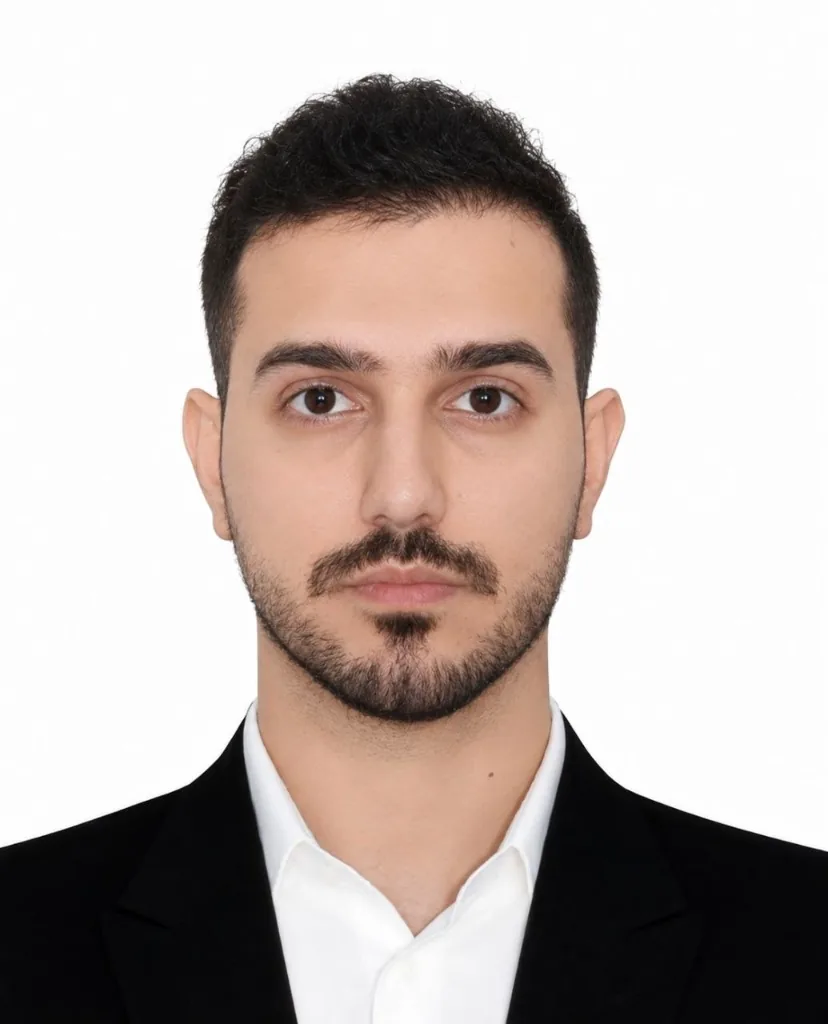
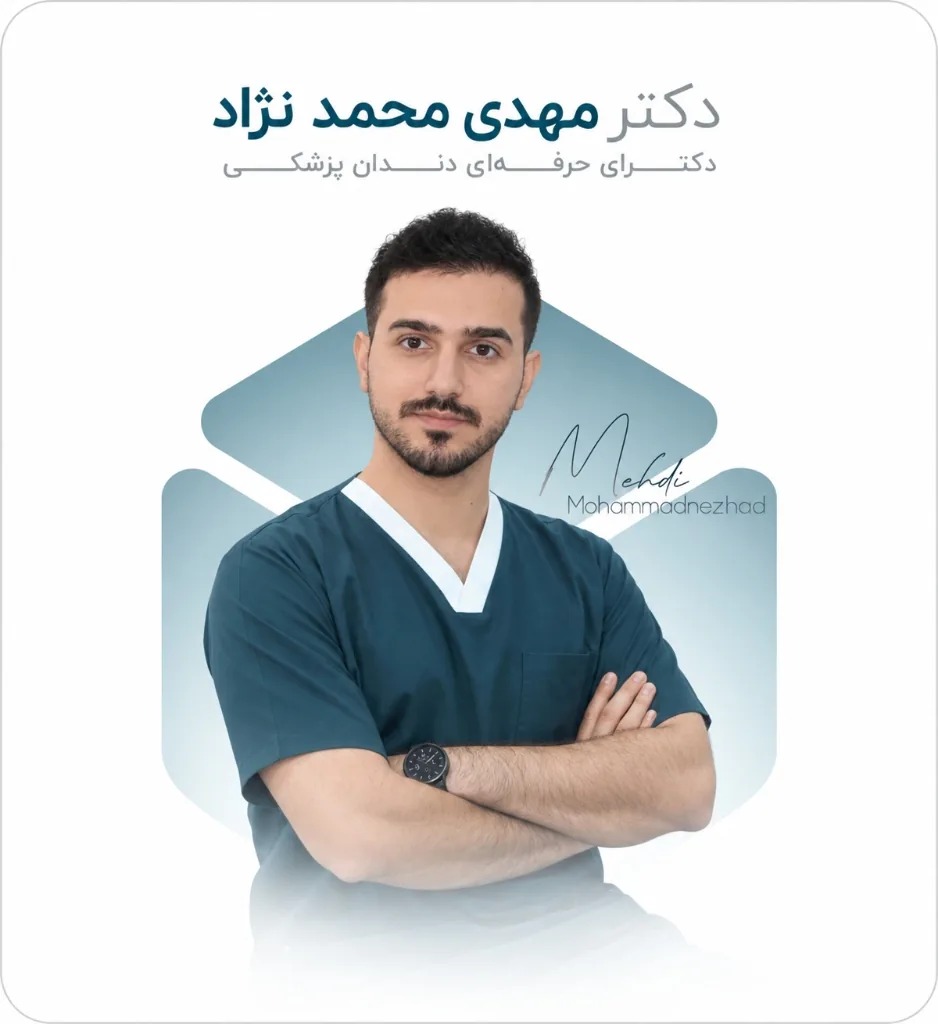
fix(assets): restore clinic card image for doctors carousel and use optimized portrait for article comments

diff --git a/src/app/articles/[slug]/page.tsx b/src/app/articles/[slug]/page.tsx
@@ -658,7 +658,7 @@ export default async function ArticleDetailPage({ params }: ArticleDetailProps) 
                               }}
                             >
                               <Image
-                                src="/assets/doctor-mohammadnezhad.webp"
+                                src="/assets/doctor-portrait.webp"
                                 alt="دکتر مهدی محمدنژاد"
                                 fill
                                 style={{ objectFit: 'cover' }}
@@ -750,7 +750,7 @@ export default async function ArticleDetailPage({ params }: ArticleDetailProps) 
                 }}
               >
                 <Image
-                  src="/assets/doctor-mohammadnezhad.webp"
+                  src="/assets/doctor-portrait.webp"
                   alt="دکتر مهدی محمدنژاد"
                   fill
                   style={{ objectFit: 'cover' }}
